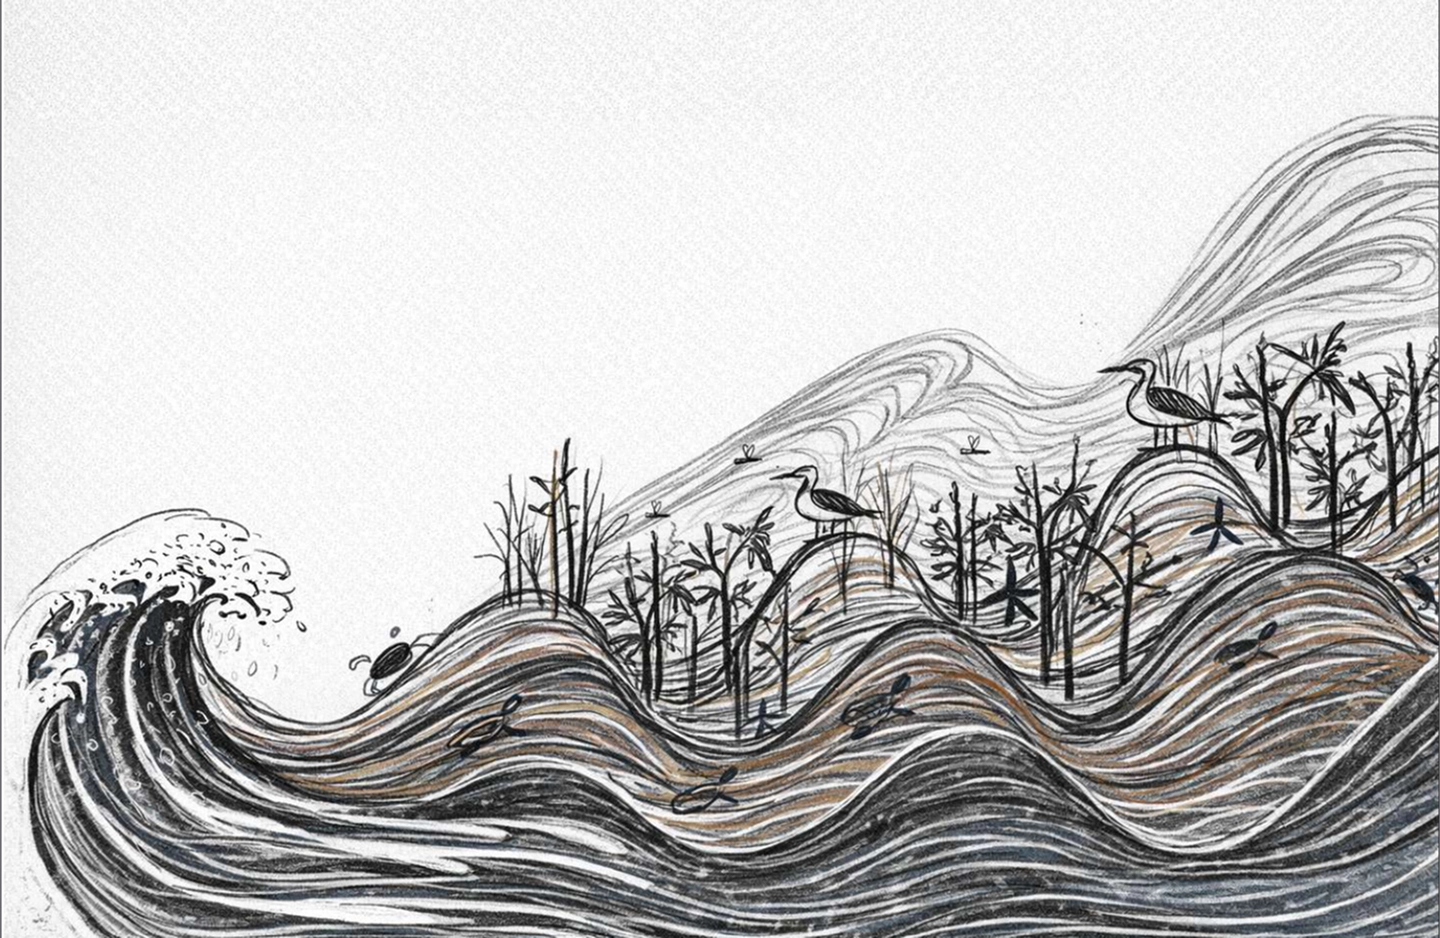
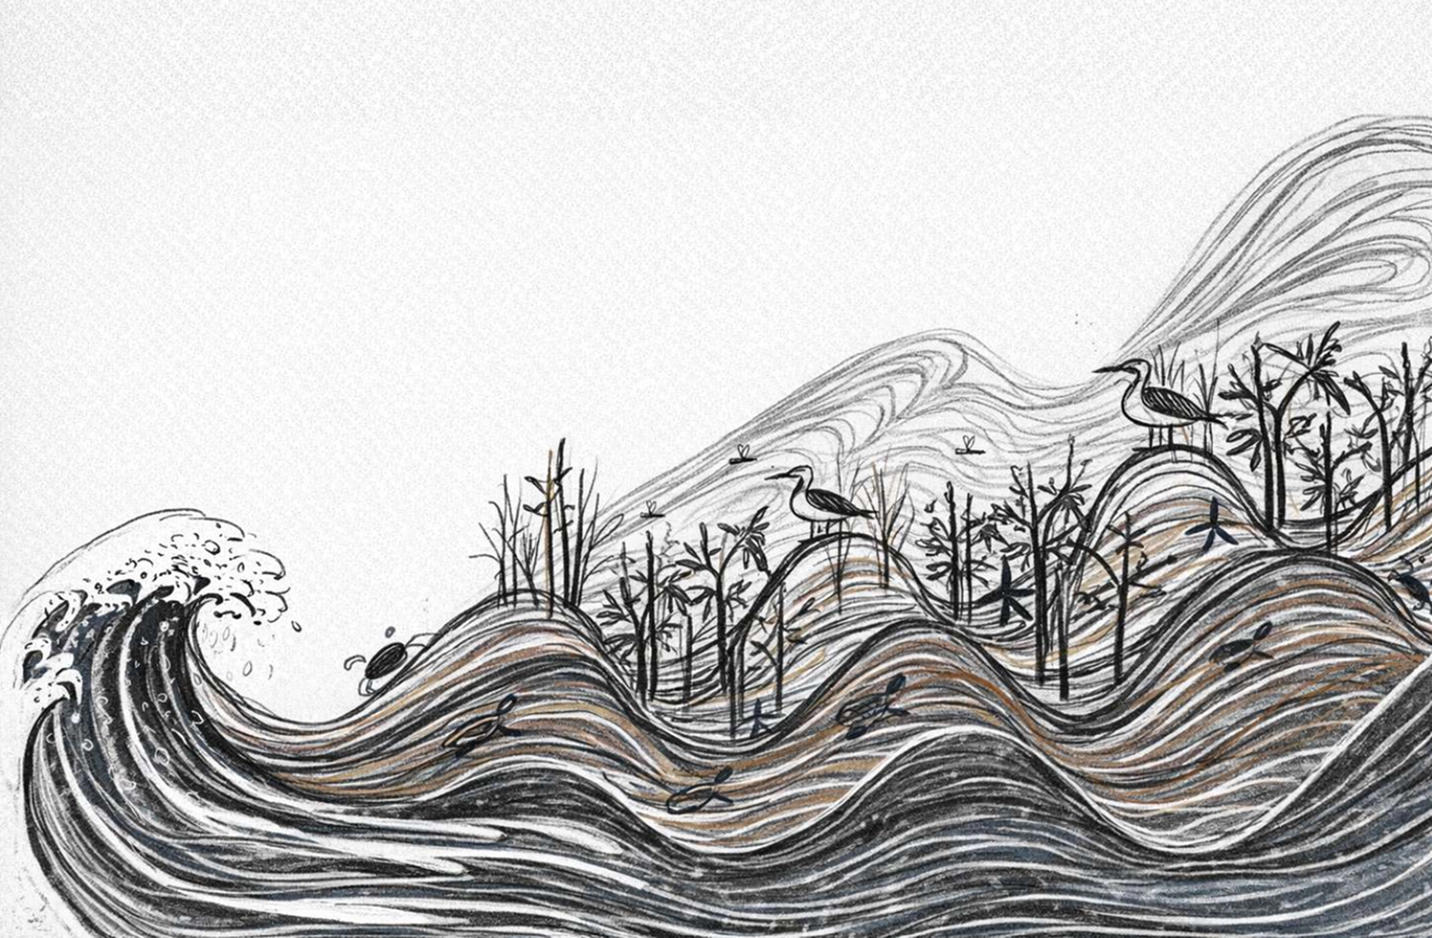
updated design, removed sections

Changed region(s): [[0.0, 0.4638, 0.5838, 1.0], [0.6453, 0.1237, 1.0, 1.0]]

diff --git a/style.css b/style.css
@@ -15,18 +15,29 @@ nav {
   flex-direction: row;
   justify-content: space-between;
   padding: 24px 64px;
-  position: sticky;
+  position: sticky; 
   top: 0;
-  background-image: url("imgs/WaveIllustration.webp");
-  background-size: cover;
+  /* background-image: url("imgs/WaveIllustration.webp");
+  background-size: cover; */
   background-position: top;
   z-index: 1000;
+  background-color: #fff;
+}
+
+.nav-spacer {
+  display: flex;
+  flex-direction: row;
+  gap: 32px;
 }
 
 nav a {
   text-decoration: none;
   color: #333;
   font-size: 24px;
+}
+
+a.active {
+  font-weight: 500;
 }
 
 h1 {
@@ -51,6 +62,7 @@ li {
   margin: 0;
   font-weight: 400;
   font-family: "Inter", sans-serif;
+  word-wrap: break-word;
 }
 ul {
   margin: 0;
@@ -75,21 +87,27 @@ a {
   display: flex;
   flex-direction: column;
   padding: 120px 64px;
+  gap: 64px;
   min-height: calc(100vh - 66px);
   /* background-color: #f5f5f5; */
-  background-image: url("imgs/WaveIllustration.webp");
+  /* background-image: url("imgs/WaveIllustration.webp");
   background-size: cover;
-  background-position: center;
+  background-position: center; */
 }
 
 .mission {
   display: flex;
   flex-direction: column;
-  padding: 120px 64px;
+  padding: 240px 64px;
   gap: 64px;
   background-image: url("imgs/recycled.webp");
   background-size: cover;
   background-position: center;
+}
+
+.mission p{
+  font-size: 32px;
+  max-width: 1000px;
 }
 
 .values {
@@ -107,7 +125,7 @@ a {
   flex-direction: column;
   padding: 120px 64px;
   gap: 64px;
-  background-image: url("imgs/recycled.webp");
+  background-image: url("imgs/whitePaper.webp");
   background-size: cover;
   background-position: center;
 }
@@ -144,8 +162,14 @@ a {
 
 .value-card img {
   width: 100%;
-  height: 200px;
+  height: 50%;
   object-fit: contain;
+}
+
+.details {
+  display: flex;
+  flex-direction: row;
+  gap: 16px;
 }
 
 footer {
@@ -165,7 +189,7 @@ footer {
   display: flex;
   flex-direction: column;
   gap: 8px;
-  width:30%;
+  width: 30%;
 }
 .col-between {
   display: flex;
@@ -214,7 +238,7 @@ footer {
   display: flex;
   flex-direction: column;
   padding: 64px 0 96px;
-  gap:48px;
+  gap: 48px;
 }
 
 .projectImgs {
@@ -301,7 +325,7 @@ footer {
     font-size: 48px;
   }
 
-  h2 {
+  h2, .axPage h2 {
     font-size: 32px;
   }
 
@@ -309,7 +333,8 @@ footer {
     font-size: 24px;
   }
 
-  p,a {
+  p,
+  a, li {
     font-size: 18px;
   }
 
@@ -319,6 +344,7 @@ footer {
   .renov-projects,
   .urban-projects,
   .about,
+  .ax,
   footer,
   .projectHero,
   .projectImgs,
@@ -334,4 +360,10 @@ footer {
     flex-direction: column;
     /* align-items: center; */
   }
+
+  .col {
+    width: 100%;
+  }
+
+  
 }

diff --git a/index.html b/index.html
@@ -8,58 +8,61 @@
   </head>
   <body>
     <nav>
-      <a href="index.html#projects">projects</a>
+      <a href="index.html">Studio Karasa</a>
       <a href="about.html">about</a>
     </nav>
     <main>
       <div class="hero">
-        <h1>Studio Karasa</h1>
-        <p>Shaping space with context and care</p>
+        <div class="projectHeroTxt">
+          <h1>Studio Karasa</h1>
+          <p>Shaping space with context and care</p>
+        </div>
+
+        <img src="imgs\WaveIllustration.webp" alt="Renovation Project Image" />
       </div>
       <div class="mission">
-        <h2>Mission</h2>
+        <!-- <h2>Our approach</h2> -->
         <p>
-          We explore architecture as a multidisciplinary practice that connects
-          design, materiality, construction, and landscape. Through adaptive
-          reuse, contextual sensitivity, and environmental responsibility, we
-          shape spaces that support people, places, and long-term resilience
+          Studio Karasa explores architecture as a careful balance of place,
+          people, and process. We design with context, build with clarity, and
+          shape spaces that are sustainable, human-centered, and made to last.
         </p>
       </div>
-      <div class="values">
+      <!-- <div class="values">
         <h2>Core Values</h2>
         <div class="card-container">
           <div class="value-card">
-            <img src="imgs\leaf_2x.webp" alt="Urban Thinking Icon" />
+            <img src="imgs\urban.jpg" alt="Urban Thinking Icon" />
             <h3>Urban & Environment Thinking</h3>
             <p>Designing with city, context, and climate in mind.</p>
           </div>
           <div class="value-card">
-            <img src="imgs\helmet_2x.webp" alt="Project Management Icon" />
+            <img src="imgs\construction.jpg" alt="Project Management Icon" />
             <h3>Project Management & Construction Skills</h3>
             <p>From concept to build, with clarity and control.</p>
           </div>
           <div class="value-card">
-            <img src="imgs\person_2x.webp" alt="Sustainability Icon" />
+            <img src="imgs\sustainable.jpg" alt="Sustainability Icon" />
             <h3>Sustainable & Human-Centered Solutions</h3>
             <p>Spaces that support people and last over time.</p>
           </div>
         </div>
-      </div>
+      </div> -->
       <div class="renov-projects" id="projects">
         <h2>Renovation Projects</h2>
         <div class="card-container">
           <a href="projectPage1.html" class="project-card">
             <img src="project1\DSC01676.webp" alt="Project Image 1" />
-            <h3>Project Name 1</h3>
-            <p>Configurable boundaries that reframe how rooms work.</p>
+            <h3>Boundaries that redefine how rooms work</h3>
+            <p>Interior & Furniture Design</p>
+            <p>2022</p>
           </a>
           <a href="projectPage2.html" class="project-card">
             <img src="project2\render1.webp" alt="Project Image 1" />
 
-            <h3>Project Name 2</h3>
-            <p></p>
-            Stitching services and finishes to restore flow and define new edges
-            in the studio.
+            <h3>Repairing flow, refining edges</h3>
+            <p>Interior & Furniture Design</p>
+            <p>2026</p>
           </a>
         </div>
       </div>

diff --git a/accessibilityStatement.html b/accessibilityStatement.html
@@ -7,9 +7,12 @@
     <link rel="stylesheet" href="style.css" />
   </head>
   <body class="axPage">
-    <nav>
-      <a href="index.html">Studio Karasa</a>
+<nav>
+      <a href="index.html" class="active">Studio Karasa</a>
+      <div class="nav-spacer">
+      <a href="index.html#projects">projects</a>
       <a href="about.html">about</a>
+      </div>
     </nav>
     <main class="ax">
       <h1>Accessibility Statement</h1>
@@ -73,9 +76,9 @@
           <h2>Contact information</h2>
           <p>
             For accessibility-related questions or requests, please contact us
-            at:Email: [insert email]Phone: [insert phone number]
+            at: [email redacted]
           </p>
-        </div>
+        </div>      
         <div class="col">
           <h2>Date</h2>
           <p>This statement was prepared / last updated on: [insert date]</p>

diff --git a/about.html b/about.html
@@ -9,13 +9,13 @@
   <body class="aboutPage">
     <nav>
       <a href="index.html">Studio Karasa</a>
-      <a href="about.html">about</a>
+      <a href="about.html" class="active">about</a>
     </nav>
     <main class="about">
       <h1>About</h1>
       <div class="about-txt">
       <p>
-        ‘As an architect and urbanist, I am interested in architecture’s
+        As an architect and urbanist, I am interested in architecture’s
         capacity to shape spatial dynamics and influence the relationship
         between people, cities, and the environment. My academic and
         professional experiences across different cultural contexts have

diff --git a/projectPage1.html b/projectPage1.html
@@ -14,8 +14,8 @@
     <main>
       <div class="projectHero">
         <div class="projectHeroTxt">
-          <h1>Renovation Project</h1>
-          <p>Apartment Renovation</p>
+          <h1>Boundaries that redefine how rooms work</h1>
+          <p>Interior & Furniture Design</p>
         </div>
 
         <img src="project1\DSC01676.webp" alt="Renovation Project Image" />

diff --git a/projectPage2.html b/projectPage2.html
@@ -14,8 +14,8 @@
     <main>
       <div class="projectHero">
         <div class="projectHeroTxt">
-          <h1>Renovation Project</h1>
-          <p>Apartment Renovation</p>
+          <h1>Repairing flow, refining edges</h1>
+          <p>Interior & Furniture Design</p>
         </div>
 
         <img src="project2\render1.webp" alt="Renovation Project Image" />